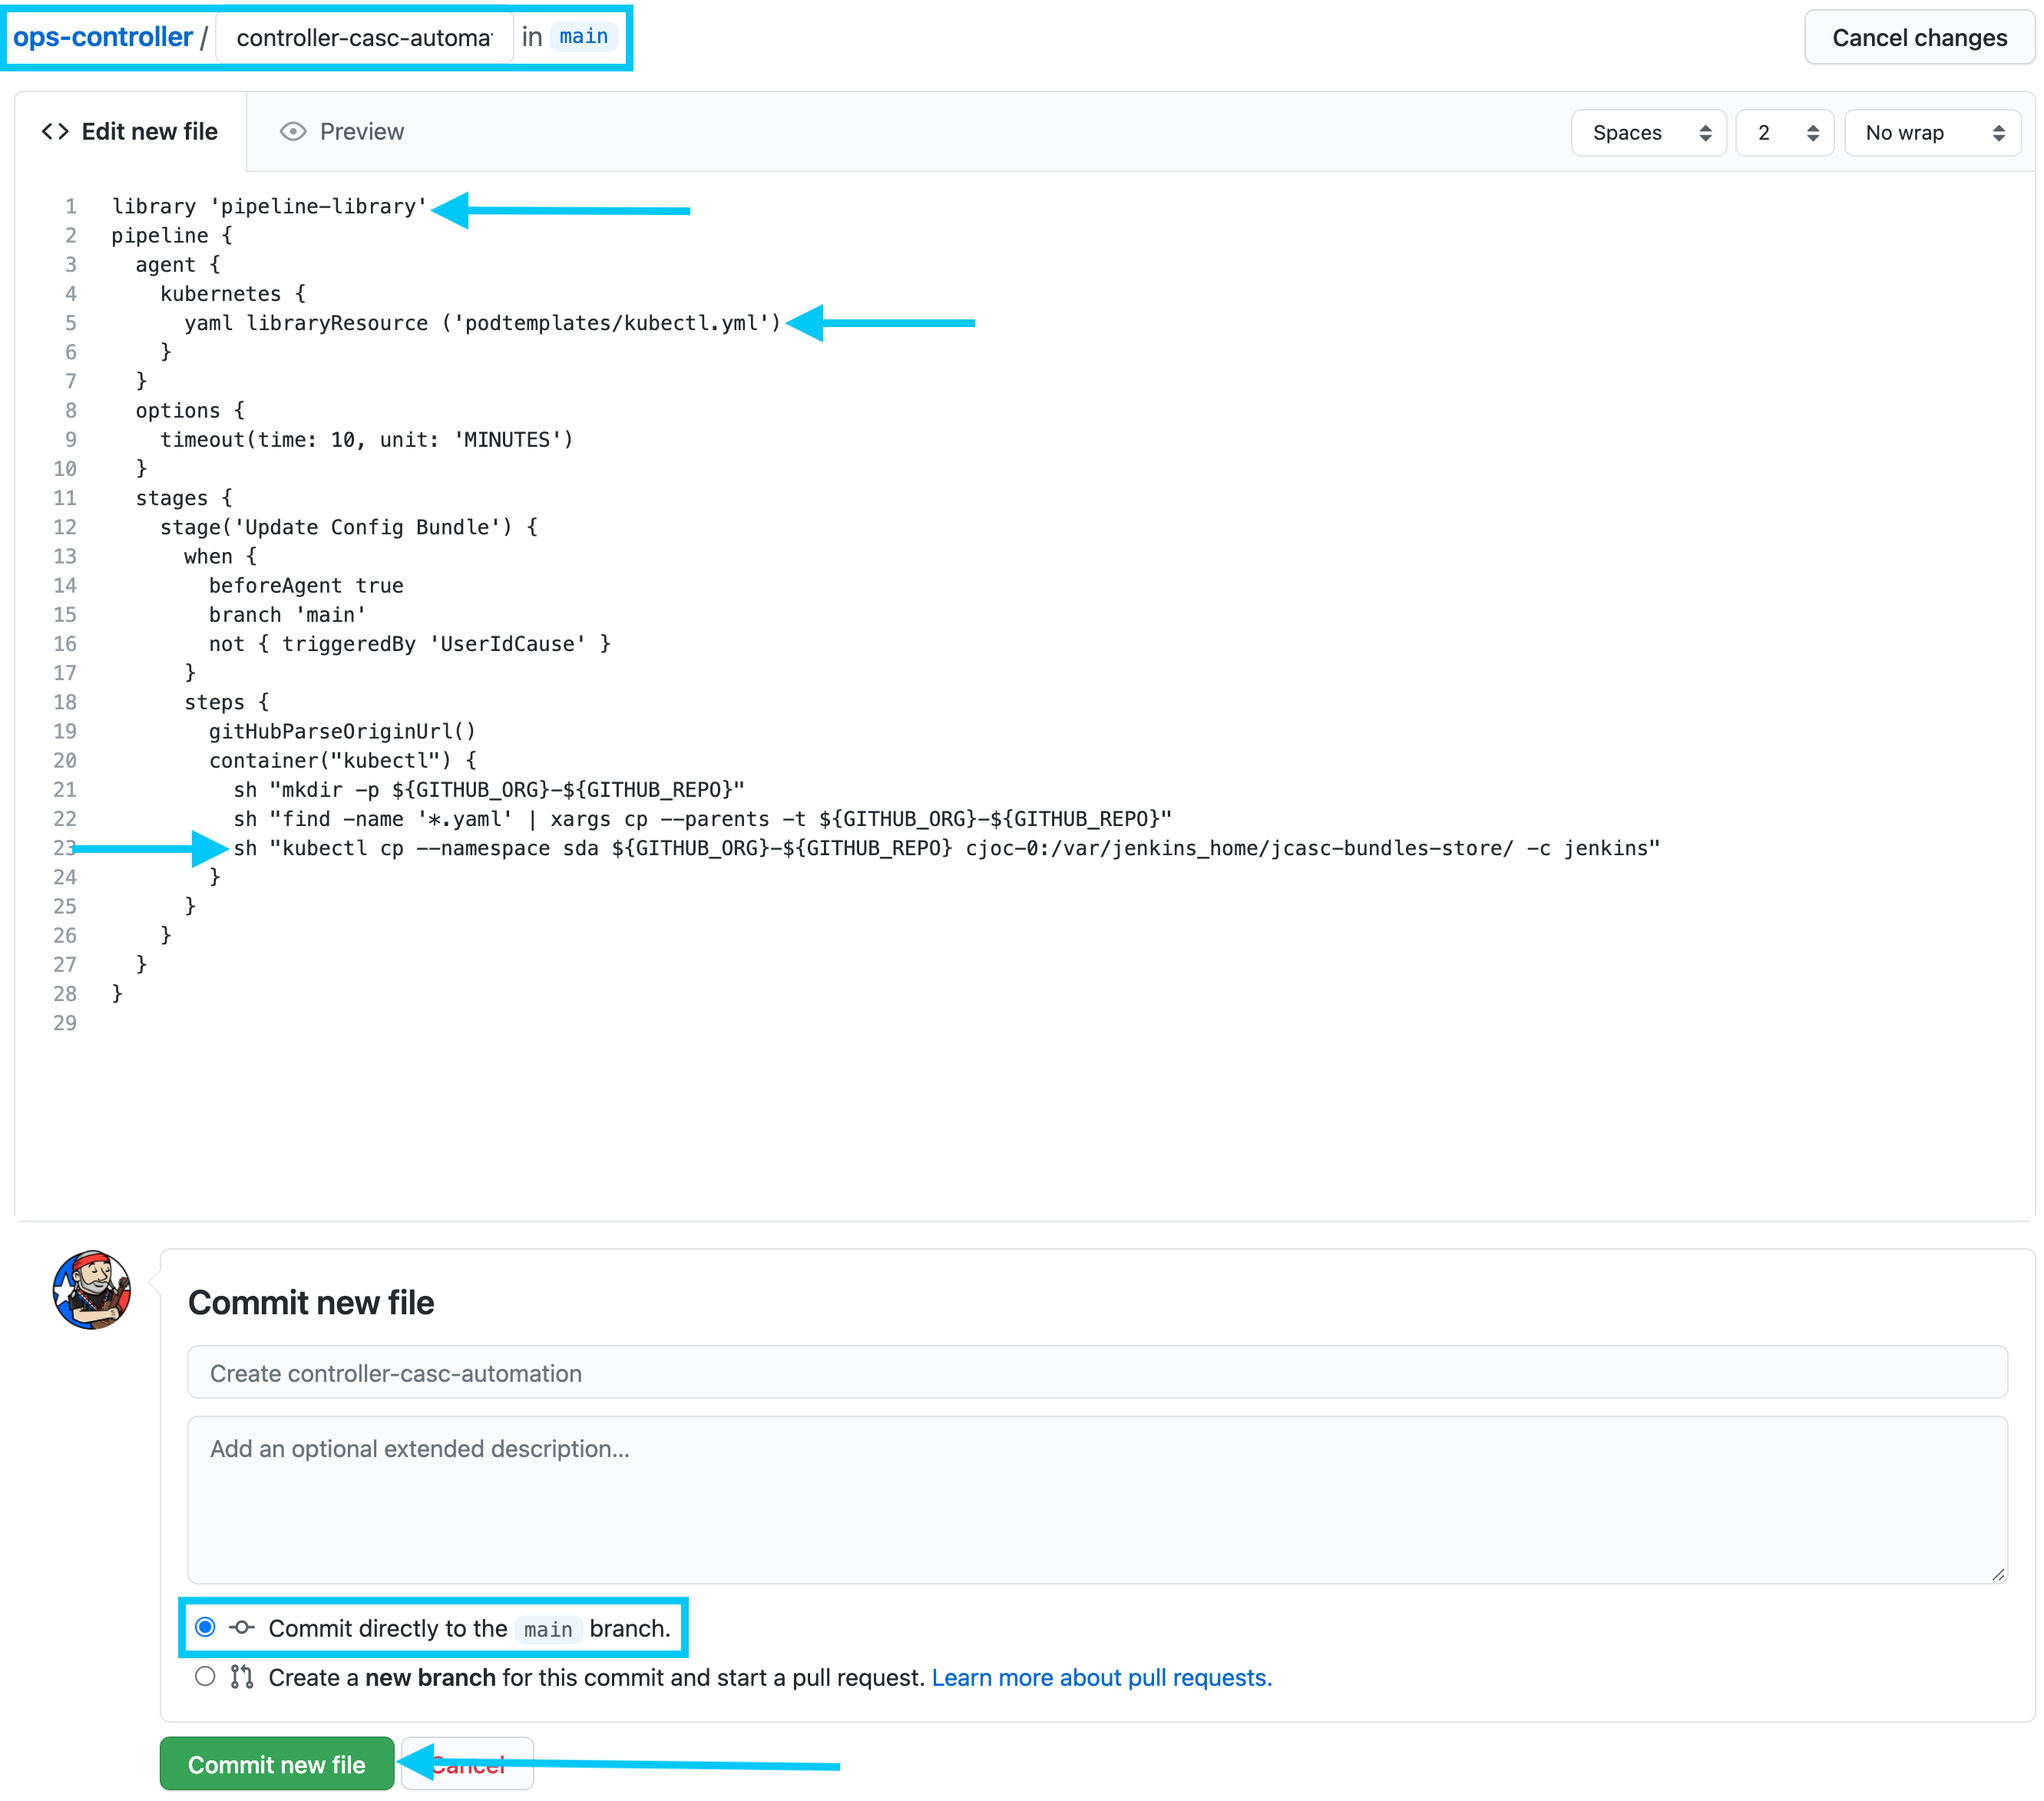
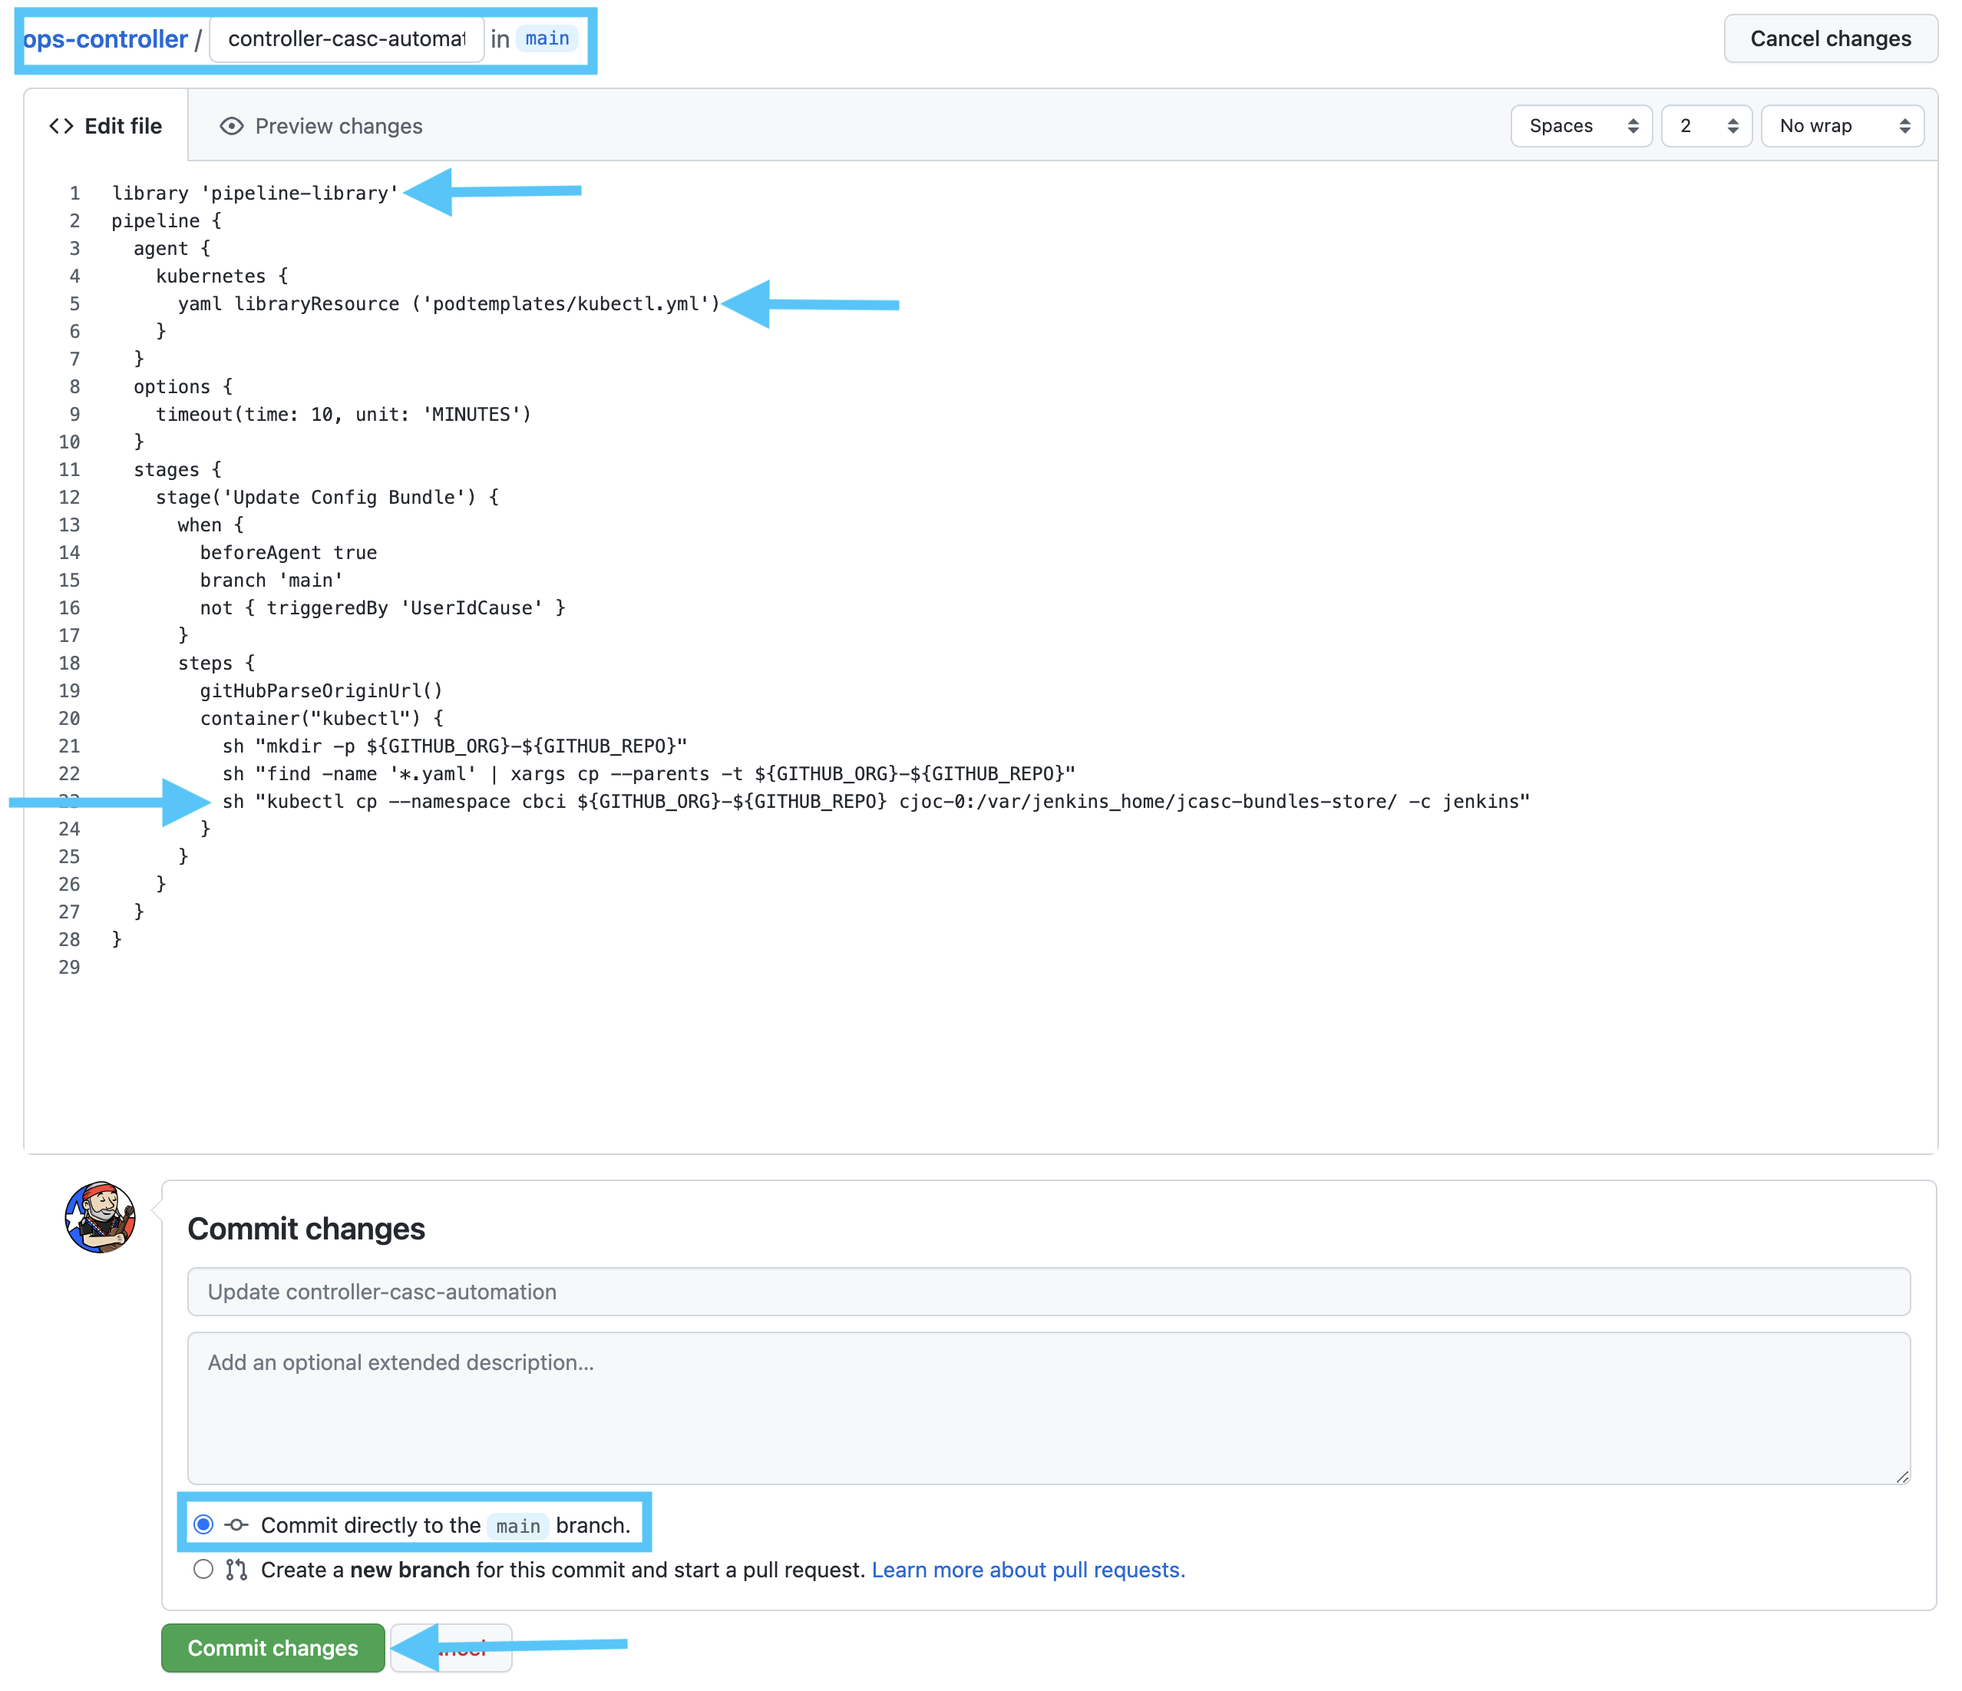
update for new release

diff --git a/labs/cloudbees-ci-casc/content/labs/bundle-management.md b/labs/cloudbees-ci-casc/content/labs/bundle-management.md
@@ -66,7 +66,7 @@ pipeline {
         container("kubectl") {
           sh "mkdir -p ${GITHUB_ORG}-${GITHUB_REPO}"
           sh "find -name '*.yaml' | xargs cp --parents -t ${GITHUB_ORG}-${GITHUB_REPO}"
-          sh "kubectl cp --namespace sda ${GITHUB_ORG}-${GITHUB_REPO} cjoc-0:/var/jenkins_home/jcasc-bundles-store/ -c jenkins"
+          sh "kubectl cp --namespace cbci ${GITHUB_ORG}-${GITHUB_REPO} cjoc-0:/var/jenkins_home/jcasc-bundles-store/ -c jenkins"
         }
       }
     }
